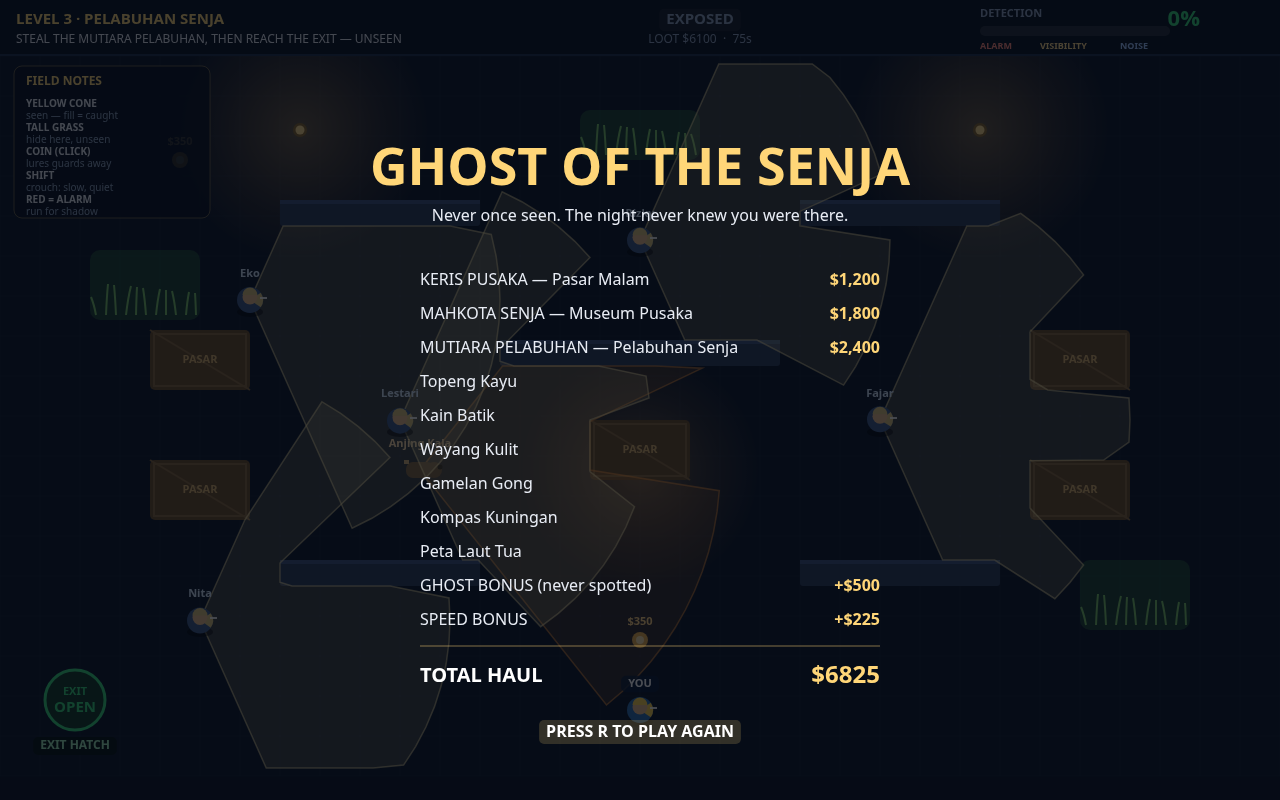
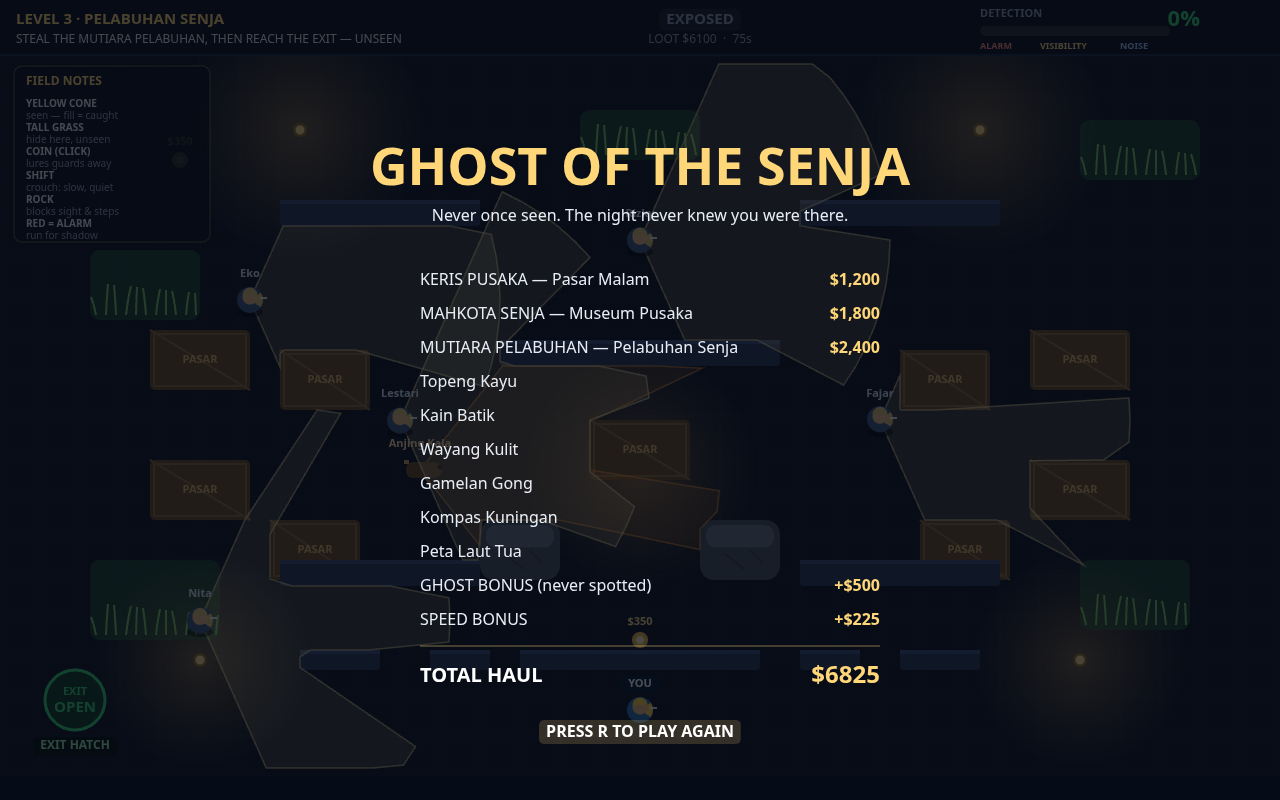
Enlarge maps + add rocks, grass, crates (v4 revision 2)

diff --git a/game/src/levels.js b/game/src/levels.js
@@ -18,20 +18,32 @@ export const LEVELS = [
       { x: 300, y: 230, w: 180, h: 26 }, { x: 800, y: 230, w: 180, h: 26 },
       { x: 300, y: 520, w: 180, h: 26 }, { x: 800, y: 520, w: 180, h: 26 },
       { x: 560, y: 330, w: 26, h: 130 }, { x: 694, y: 330, w: 26, h: 130 },
+      { x: 540, y: 600, w: 26, h: 90 }, { x: 700, y: 600, w: 26, h: 90 },
+      { x: 950, y: 690, w: 180, h: 26 }, { x: 60, y: 720, w: 180, h: 26 },
     ],
     crates: [
       { x: 180, y: 330, w: 90, h: 60 }, { x: 1010, y: 330, w: 90, h: 60 },
       { x: 180, y: 620, w: 90, h: 60 }, { x: 1010, y: 620, w: 90, h: 60 },
       { x: 590, y: 640, w: 100, h: 60 },
+      { x: 450, y: 670, w: 90, h: 60 }, { x: 830, y: 670, w: 90, h: 60 },
+      { x: 230, y: 100, w: 80, h: 50 },
+    ],
+    rocks: [
+      { x: 60, y: 560, w: 80, h: 60 }, { x: 60, y: 300, w: 70, h: 55 },
+      { x: 1090, y: 250, w: 70, h: 55 }, { x: 900, y: 590, w: 80, h: 55 },
+      { x: 740, y: 690, w: 90, h: 60 },
     ],
     grass: [
       { x: 90, y: 430, w: 120, h: 80 }, { x: 1070, y: 430, w: 120, h: 80 },
       { x: 580, y: 250, w: 120, h: 50 },
+      { x: 90, y: 600, w: 130, h: 80 }, { x: 1060, y: 600, w: 130, h: 70 },
+      { x: 560, y: 600, w: 160, h: 60 }, { x: 1050, y: 180, w: 110, h: 60 },
     ],
     shelves: [],
     lamps: [
       { x: 340, y: 150, r: 130 }, { x: 940, y: 150, r: 130 },
       { x: 340, y: 660, r: 120 }, { x: 940, y: 660, r: 120 },
+      { x: 640, y: 720, r: 110 }, { x: 1160, y: 480, r: 100 },
     ],
     checkered: null,
     guards: [
@@ -57,17 +69,29 @@ export const LEVELS = [
       { x: 380, y: 180, w: 26, h: 380 }, { x: 874, y: 180, w: 26, h: 380 },
       { x: 380, y: 180, w: 520, h: 26 }, { x: 380, y: 534, w: 200, h: 26 },
       { x: 700, y: 534, w: 200, h: 26 },
+      { x: 300, y: 670, w: 140, h: 26 }, { x: 840, y: 670, w: 140, h: 26 },
     ],
     crates: [
       { x: 120, y: 420, w: 90, h: 60 }, { x: 1070, y: 300, w: 90, h: 60 },
+      { x: 300, y: 540, w: 90, h: 60 }, { x: 900, y: 540, w: 90, h: 60 },
+      { x: 640, y: 680, w: 100, h: 60 }, { x: 1080, y: 680, w: 90, h: 60 },
     ],
-    grass: [],
+    rocks: [
+      { x: 490, y: 685, w: 60, h: 50 }, { x: 750, y: 685, w: 60, h: 50 },
+    ],
+    grass: [
+      { x: 450, y: 590, w: 90, h: 50 }, { x: 730, y: 590, w: 90, h: 50 },
+    ],
     shelves: [
       { x: 60, y: 220, w: 26, h: 220 }, { x: 1194, y: 220, w: 26, h: 220 },
       { x: 430, y: 210, w: 180, h: 24 }, { x: 670, y: 210, w: 180, h: 24 },
+      { x: 300, y: 700, w: 180, h: 24 }, { x: 560, y: 700, w: 180, h: 24 },
+      { x: 820, y: 700, w: 180, h: 24 },
+      { x: 60, y: 560, w: 26, h: 160 }, { x: 1194, y: 480, w: 26, h: 60 },
     ],
     lamps: [
       { x: 640, y: 120, r: 140 }, { x: 200, y: 700, r: 120 }, { x: 1080, y: 120, r: 120 },
+      { x: 300, y: 720, r: 110 }, { x: 980, y: 720, r: 110 },
     ],
     checkered: { x: 406, y: 206, w: 468, h: 328 },
     guards: [
@@ -99,20 +123,30 @@ export const LEVELS = [
       { x: 280, y: 200, w: 200, h: 26 }, { x: 800, y: 200, w: 200, h: 26 },
       { x: 280, y: 560, w: 200, h: 26 }, { x: 800, y: 560, w: 200, h: 26 },
       { x: 500, y: 340, w: 280, h: 26 },
+      { x: 300, y: 650, w: 80, h: 20 }, { x: 430, y: 650, w: 60, h: 20 },
+      { x: 520, y: 650, w: 240, h: 20 },
+      { x: 800, y: 650, w: 60, h: 20 }, { x: 900, y: 650, w: 80, h: 20 },
     ],
     crates: [
       { x: 150, y: 330, w: 100, h: 60 }, { x: 1030, y: 330, w: 100, h: 60 },
       { x: 150, y: 460, w: 100, h: 60 }, { x: 1030, y: 460, w: 100, h: 60 },
       { x: 590, y: 420, w: 100, h: 60 },
+      { x: 280, y: 350, w: 90, h: 60 }, { x: 900, y: 350, w: 90, h: 60 },
+      { x: 270, y: 520, w: 90, h: 60 }, { x: 920, y: 520, w: 90, h: 60 },
+    ],
+    rocks: [
+      { x: 480, y: 520, w: 80, h: 60 }, { x: 700, y: 520, w: 80, h: 60 },
     ],
     grass: [
       { x: 90, y: 250, w: 110, h: 70 }, { x: 1080, y: 560, w: 110, h: 70 },
       { x: 580, y: 110, w: 120, h: 50 },
+      { x: 90, y: 560, w: 130, h: 80 }, { x: 1080, y: 120, w: 120, h: 60 },
     ],
     shelves: [],
     lamps: [
       { x: 300, y: 130, r: 130 }, { x: 980, y: 130, r: 130 },
       { x: 640, y: 470, r: 120 },
+      { x: 200, y: 660, r: 110 }, { x: 1080, y: 660, r: 110 },
     ],
     checkered: null,
     guards: [

diff --git a/game/src/render.js b/game/src/render.js
@@ -208,6 +208,17 @@ function drawProps(ctx, def, g) {
     ctx.textAlign = 'center'; ctx.textBaseline = 'middle';
     ctx.fillText(def.crateLabel || 'PASAR', c.x + c.w / 2, c.y + c.h / 2);
   }
+  // rocks — grey boulders, solid cover like crates
+  for (const r of (def.rocks || [])) {
+    ctx.fillStyle = '#4a5563';
+    roundRect(ctx, r.x, r.y, r.w, r.h, 14); ctx.fill();
+    ctx.fillStyle = '#6b7787';
+    roundRect(ctx, r.x + 6, r.y + 5, r.w - 12, (r.h - 10) * 0.45, 10); ctx.fill();
+    ctx.strokeStyle = '#39424e';
+    ctx.lineWidth = 2;
+    ctx.beginPath(); ctx.moveTo(r.x + r.w * 0.3, r.y + r.h * 0.55); ctx.lineTo(r.x + r.w * 0.55, r.y + r.h * 0.82); ctx.stroke();
+    ctx.beginPath(); ctx.moveTo(r.x + r.w * 0.62, r.y + r.h * 0.5); ctx.lineTo(r.x + r.w * 0.78, r.y + r.h * 0.72); ctx.stroke();
+  }
   // walls — old plaster with a warm top edge
   for (const w of def.walls) {
     ctx.fillStyle = '#2c3d5c';
@@ -377,16 +388,17 @@ function drawHud(ctx, g) {
 function drawFieldNotes(ctx, g) {
   const x = 14, y = 66, w = 196;
   ctx.fillStyle = 'rgba(8,16,30,.82)';
-  roundRect(ctx, x, y, w, 152, 8); ctx.fill();
+  roundRect(ctx, x, y, w, 176, 8); ctx.fill();
   ctx.strokeStyle = 'rgba(255,214,120,.35)';
   ctx.lineWidth = 1;
-  roundRect(ctx, x, y, w, 152, 8); ctx.stroke();
+  roundRect(ctx, x, y, w, 176, 8); ctx.stroke();
   label(ctx, 'FIELD NOTES', x + 12, y + 16, { size: 12, color: '#ffd678' });
   const rows = [
     ['YELLOW CONE', 'seen — fill = caught'],
     ['TALL GRASS', 'hide here, unseen'],
     ['COIN (CLICK)', 'lures guards away'],
     ['SHIFT', 'crouch: slow, quiet'],
+    ['ROCK', 'blocks sight & steps'],
     ['RED = ALARM', 'run for shadow'],
   ];
   rows.forEach(([a, b], i) => {
@@ -445,12 +457,47 @@ function drawTitle(ctx, g) {
   // night-market backdrop: dark floor, lamps, a patrol cone
   ctx.fillStyle = '#0d1729';
   ctx.fillRect(0, 0, VIEW.w, VIEW.h);
-  for (const l of [{ x: 300, y: 300 }, { x: 980, y: 300 }, { x: 640, y: 640 }]) {
+  for (const l of [{ x: 300, y: 300 }, { x: 980, y: 300 }, { x: 640, y: 640 }, { x: 150, y: 700 }, { x: 1130, y: 700 }]) {
     const grad = ctx.createRadialGradient(l.x, l.y, 8, l.x, l.y, 220);
     grad.addColorStop(0, 'rgba(255,196,110,.28)');
     grad.addColorStop(1, 'rgba(255,196,110,0)');
     ctx.fillStyle = grad;
     ctx.beginPath(); ctx.arc(l.x, l.y, 220, 0, Math.PI * 2); ctx.fill();
+  }
+  // bottom dressing: grass, crates and rocks fill the lower frame
+  for (const r of [{ x: 90, y: 690, w: 140, h: 70 }, { x: 1050, y: 690, w: 140, h: 70 }]) {
+    ctx.fillStyle = 'rgba(46,110,64,.5)';
+    roundRect(ctx, r.x, r.y, r.w, r.h, 10); ctx.fill();
+    ctx.strokeStyle = '#7cc46a';
+    ctx.lineWidth = 2;
+    for (let i = 0; i < r.w / 10; i++) {
+      const x = r.x + 6 + i * 10;
+      const y = r.y + r.h - 5;
+      const lean = ((i * 7) % 11) - 5;
+      const hgt = 18 + ((i * 13) % 14);
+      ctx.beginPath();
+      ctx.moveTo(x, y);
+      ctx.quadraticCurveTo(x + lean * 0.4, y - hgt * 0.6, x + lean, y - hgt);
+      ctx.stroke();
+    }
+  }
+  for (const c of [{ x: 300, y: 700, w: 90, h: 60 }, { x: 890, y: 700, w: 90, h: 60 }]) {
+    ctx.fillStyle = '#6e4f2a';
+    roundRect(ctx, c.x, c.y, c.w, c.h, 5); ctx.fill();
+    ctx.strokeStyle = '#8a6a3d';
+    ctx.lineWidth = 2;
+    ctx.strokeRect(c.x + 4, c.y + 4, c.w - 8, c.h - 8);
+    ctx.beginPath(); ctx.moveTo(c.x, c.y); ctx.lineTo(c.x + c.w, c.y + c.h); ctx.stroke();
+    ctx.fillStyle = '#d9b06a';
+    ctx.font = '700 11px system-ui, sans-serif';
+    ctx.textAlign = 'center'; ctx.textBaseline = 'middle';
+    ctx.fillText('PASAR', c.x + c.w / 2, c.y + c.h / 2);
+  }
+  for (const r of [{ x: 540, y: 710, w: 80, h: 55 }, { x: 660, y: 710, w: 80, h: 55 }]) {
+    ctx.fillStyle = '#4a5563';
+    roundRect(ctx, r.x, r.y, r.w, r.h, 14); ctx.fill();
+    ctx.fillStyle = '#6b7787';
+    roundRect(ctx, r.x + 6, r.y + 5, r.w - 12, (r.h - 10) * 0.45, 10); ctx.fill();
   }
   drawCone(ctx, 180, 620, 0, 300, GUARD_FOV, [], '#ffe9a8', 0.16);
   drawPerson(ctx, 180, 620, 0, '#3d5a8a', '#d9c27a', {});

diff --git a/game/src/engine.js b/game/src/engine.js
@@ -115,7 +115,7 @@ export function loadLevel(g, i) {
 }
 
 export function solidsOf(def) {
-  return [...def.walls, ...def.crates, ...def.shelves];
+  return [...def.walls, ...def.crates, ...def.shelves, ...(def.rocks || [])];
 }
 
 export function inGrass(def, x, y) {
